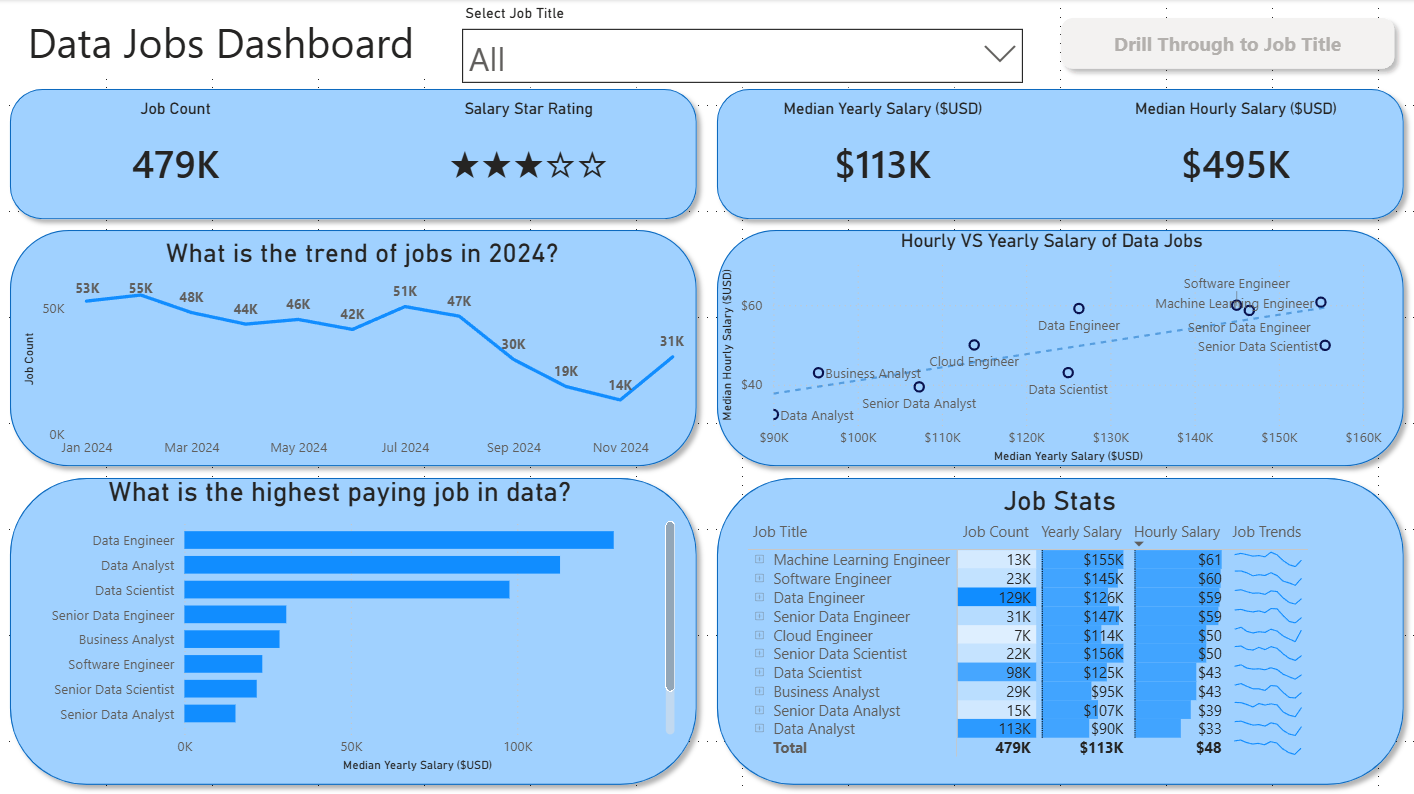
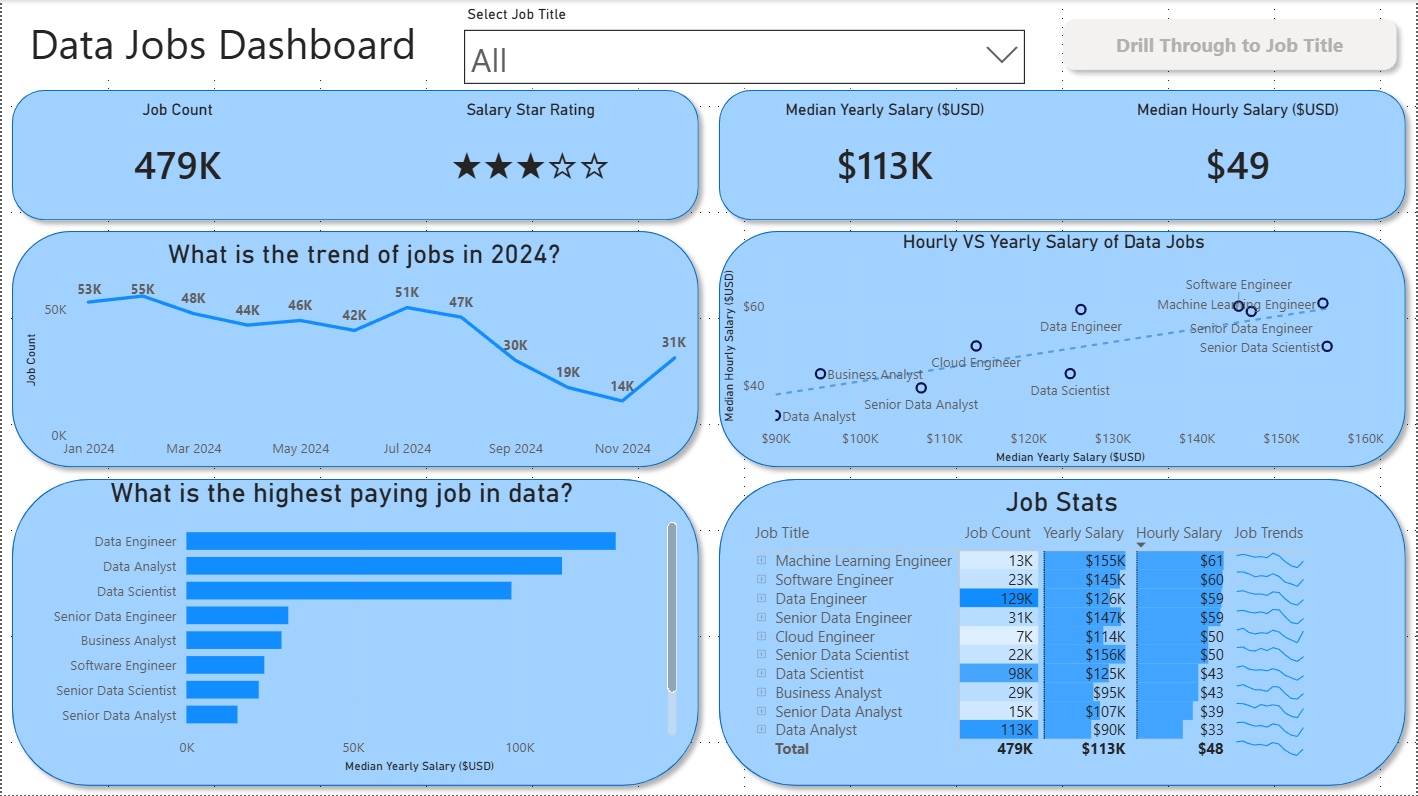
- Edited Dashboard - fixed formatting error - updated source README

diff --git a/README.md b/README.md
@@ -1,98 +1,28 @@
-# Data Jobs Dashboard w/ Power BI
+# My Power BI Dashboard Portfolio
 
-![Dashboard Page 1](/images/power_bi_page_1.png)
+Hello, this repository is a collection of Power BI dashboards that I have developed. It documents my progression in learning Power BI, from foundational reporting concepts to more advanced dashboard design and analytics techniques.
 
-## Introduction
+The goal of this portfolio is not only to showcase technical skills, but also to demonstrate how data can be transformed into useful, clear, and actionable insights.
 
-This dashboard was created for job seekers, career transitioners, and professionals exploring opportunities in the data industry. Using a real-world dataset of 2024 data job postings, the report consolidates salary, location, and hiring trends into a single interactive dashboard, making it easier to explore the current job market and identify career opportunities.
+# Featured Dashboards
 
-## Tools Used
+Explore the dashboards below, Each of them has their own dedicated README file with more details on the build process and specific features that they have. 
 
-- Power BI
-- Power Query
-- Data Transformation (ETL)
-- Data Visualization
-- Interactive Dashboards
-- Drill-Through Reporting
-- Bookmarks & Navigation
-- Geospatial Analysis
+## Data Jobs Dashboard | Power BI
 
-## Skills Showcased
+![Data Jobs DB png](/images/power_bi_page_1.png)
 
-- **Data Transformation (ETL) with Power Query:** 
-Cleaned, shaped, and prepared the raw data for analysis by handling blanks, changing data types, and creating new columns. 
+**Key Power BI Skills Utilized**
+- Dashboard Layout & Design
+- Power Query (ETL & Data Shaping)
+- Basic Data Modeling (Table Relationships)
+- Implicit Measures & Standard Aggregations
+- Core Charts (Bar, Line, Area, Column)
+- Map Visualizations for Geospatial Data
+- KPI Cards & Detailed Data Tables
+- Interactive Slicers for Filtering
+- Buttons & Bookmarks for Page Navigation
+- Drill-Through Functionality
 
-- **Aggregations & KPIs:** Leveraged Power BI's built-in aggregation capabilities to calculate key metrics such as Median Yearly Salary, Median Hourly Salary, and Job Count.
+[**View Full Project 1 Details (README)**](./Data_Jobs_v1/README.md)
 
-- **Core Charts:** Utilized **Column, Bar, Line, and Area Charts** to compare job counts, salary trends, and market demand across roles.
-
-- **Geospatial Analysis:** Leveraged Map Charts to visualize the global distribution of data jobs and identify geographic hiring trends.
-
-- **KPI Indicators & Tables:** Used **Cards** to display key metrics and **Tables** to provide granular, sortable data. 
-
-- **Dashboard Design:** Designed an intuitive and visually appealing layout, exploring both common and less frequently used visualizations to effectively communicate insights.
-
-- **Interactive Reporting:** 
-    - **Slicers:**
-    Implemented slicers to dynamically filter the report by Job Title.
-
-    - **Buttons & Bookmarks:** To create a seamless navigation experience between report pages and dashboard views.
-
-    - **Drill-Through:** Implemented drill-through functionality to navigate from high-level summaries to detailed contextual analysis.
-
-## Data Analysis Skills Demonstrated
-
-- Data Cleaning
-- Data Exploration
-- Data Visualization
-- Dashboard Development
-- Trend Identification
-- Salary Market Analysis
-- Interactive Reporting
-
-## Dashboard Overview
-
-### Page 1: High-Level Market View
-
-![Dashboard Page 1](/images/power_bi_page_1.png)
-
-This is your mission control for the data job market. It showcases key KPIs like total job count, median salaries, and top job titles to give you a quick understanding of what's happening in the job market at a glance. 
-
-### Page 2: Job Title Drill Through
-
-![Dashboard Page 2](/images/power_bi_page_2.png)
-
-This is the deep-dive page. From the main dashboard, you can drill through this view to get specific details for a single job title, including salary ranges, work-from-home stats, top hiring platforms, and a global map of job locations. 
-
-## Key Insights
-
-Through analysis of the 2024 data jobs market, several trends emerged:
-
-- Data-related roles continue to offer strong compensation across industries.
-- Salary ranges vary significantly depending on job title and specialization.
-- Remote opportunities remain a meaningful portion of the market.
-- Geographic location continues to influence both job availability and compensation.
-- Certain job titles consistently appear among the highest-demand positions.
-
-## What I Learned
-
-This project strengthened my understanding of:
-
-- Data transformation using Power Query
-- Preparing datasets for analysis
-- Building interactive dashboards
-- Creating effective visualizations
-- Implementing slicers, bookmarks, and drill-through navigation
-- Presenting data in a way that supports decision-making
-
-## Acknowledgements
-
-This project was completed as part of my continued learning in Power BI and data analytics. Special thanks to Luke Barousse for creating educational content that helped guide the development of this dashboard and strengthen my understanding of Power BI, data visualization, and reporting concepts.
-
-Luke's YouTube Channel: https://www.youtube.com/@LukeBarousse 
-
-While inspired by course material, the dashboard implementation, project documentation, and analysis presented here were completed as part of my personal learning journey.
-
-## Conclusion
-
-This dashboard showcases how Power BI can transform raw postings data into a powerful tool for career analysis. It allows users to slice, filter, and drill through data to make informed decisions about their career paths. 

diff --git a/Data_Jobs_v1/README.md b/Data_Jobs_v1/README.md
@@ -1,0 +1,98 @@
+# Data Jobs Dashboard w/ Power BI
+
+![Dashboard Page 1](/images/power_bi_page_1.png)
+
+## Introduction
+
+This dashboard was created for job seekers, career transitioners, and professionals exploring opportunities in the data industry. Using a real-world dataset of 2024 data job postings, the report consolidates salary, location, and hiring trends into a single interactive dashboard, making it easier to explore the current job market and identify career opportunities.
+
+## Tools Used
+
+- Power BI
+- Power Query
+- Data Transformation (ETL)
+- Data Visualization
+- Interactive Dashboards
+- Drill-Through Reporting
+- Bookmarks & Navigation
+- Geospatial Analysis
+
+## Skills Showcased
+
+- **Data Transformation (ETL) with Power Query:** 
+Cleaned, shaped, and prepared the raw data for analysis by handling blanks, changing data types, and creating new columns. 
+
+- **Aggregations & KPIs:** Leveraged Power BI's built-in aggregation capabilities to calculate key metrics such as Median Yearly Salary, Median Hourly Salary, and Job Count.
+
+- **Core Charts:** Utilized **Column, Bar, Line, and Area Charts** to compare job counts, salary trends, and market demand across roles.
+
+- **Geospatial Analysis:** Leveraged Map Charts to visualize the global distribution of data jobs and identify geographic hiring trends.
+
+- **KPI Indicators & Tables:** Used **Cards** to display key metrics and **Tables** to provide granular, sortable data. 
+
+- **Dashboard Design:** Designed an intuitive and visually appealing layout, exploring both common and less frequently used visualizations to effectively communicate insights.
+
+- **Interactive Reporting:** 
+    - **Slicers:**
+    Implemented slicers to dynamically filter the report by Job Title.
+
+    - **Buttons & Bookmarks:** To create a seamless navigation experience between report pages and dashboard views.
+
+    - **Drill-Through:** Implemented drill-through functionality to navigate from high-level summaries to detailed contextual analysis.
+
+## Data Analysis Skills Demonstrated
+
+- Data Cleaning
+- Data Exploration
+- Data Visualization
+- Dashboard Development
+- Trend Identification
+- Salary Market Analysis
+- Interactive Reporting
+
+## Dashboard Overview
+
+### Page 1: High-Level Market View
+
+![Dashboard Page 1](/images/power_bi_page_1.png)
+
+This is your mission control for the data job market. It showcases key KPIs like total job count, median salaries, and top job titles to give you a quick understanding of what's happening in the job market at a glance. 
+
+### Page 2: Job Title Drill Through
+
+![Dashboard Page 2](/images/power_bi_page_2.png)
+
+This is the deep-dive page. From the main dashboard, you can drill through this view to get specific details for a single job title, including salary ranges, work-from-home stats, top hiring platforms, and a global map of job locations. 
+
+## Key Insights
+
+Through analysis of the 2024 data jobs market, several trends emerged:
+
+- Data-related roles continue to offer strong compensation across industries.
+- Salary ranges vary significantly depending on job title and specialization.
+- Remote opportunities remain a meaningful portion of the market.
+- Geographic location continues to influence both job availability and compensation.
+- Certain job titles consistently appear among the highest-demand positions.
+
+## What I Learned
+
+This project strengthened my understanding of:
+
+- Data transformation using Power Query
+- Preparing datasets for analysis
+- Building interactive dashboards
+- Creating effective visualizations
+- Implementing slicers, bookmarks, and drill-through navigation
+- Presenting data in a way that supports decision-making
+
+## Acknowledgements
+
+This project was completed as part of my continued learning in Power BI and data analytics. Special thanks to Luke Barousse for creating educational content that helped guide the development of this dashboard and strengthen my understanding of Power BI, data visualization, and reporting concepts.
+
+Luke's YouTube Channel: https://www.youtube.com/@LukeBarousse 
+
+While inspired by course material, the dashboard implementation, project documentation, and analysis presented here were completed as part of my personal learning journey.
+
+## Conclusion
+
+This dashboard showcases how Power BI can transform raw postings data into a powerful tool for career analysis. It allows users to slice, filter, and drill through data to make informed decisions about their career paths. 